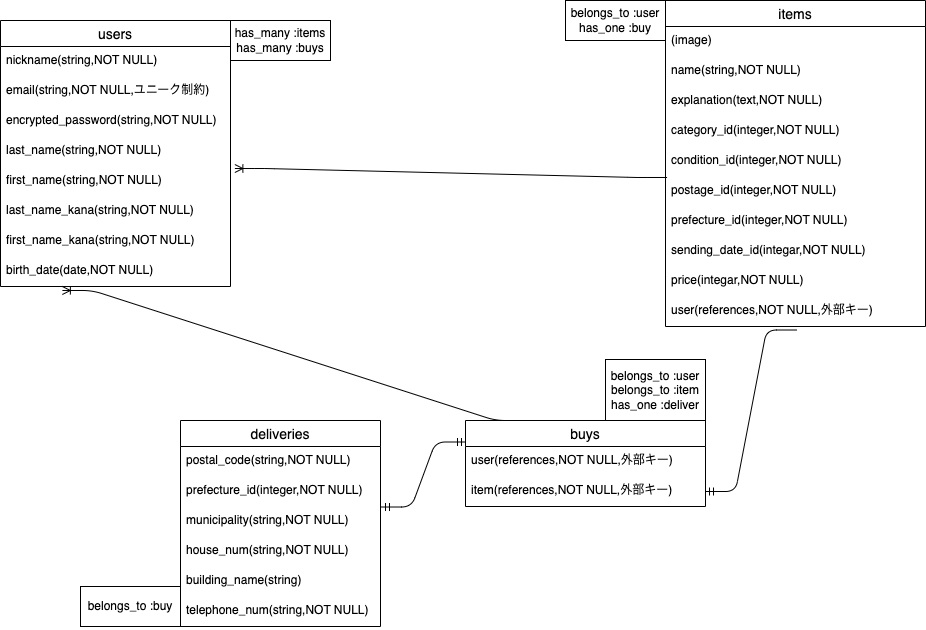
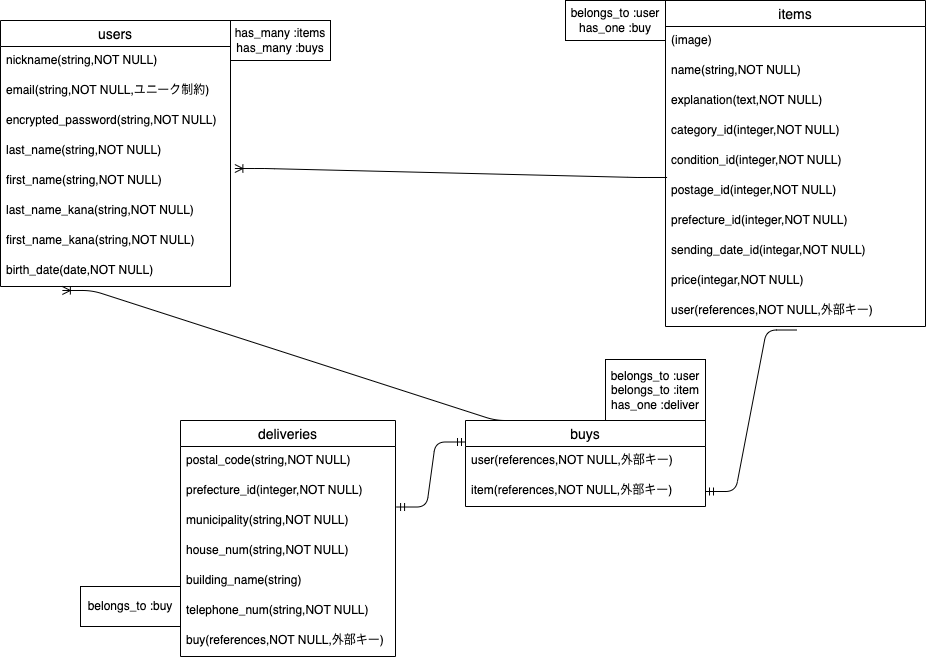
ER図とREADMEの修正2

diff --git a/README.md b/README.md
@@ -47,7 +47,7 @@
 ### Association
 - belongs_to :user
 - belongs_to :item
-- has_one :deliver
+- has_one :delivery
 
 
 ## deliveriesテーブル
@@ -59,6 +59,7 @@
 | house_num     | string     | null: false                    |
 | building_name | string     |                                |
 | telephone_num | string     | null: false                    |
+| buy           | references | null: false, foreign_key: true |
 
 ### Association
 - belongs_to :buy
